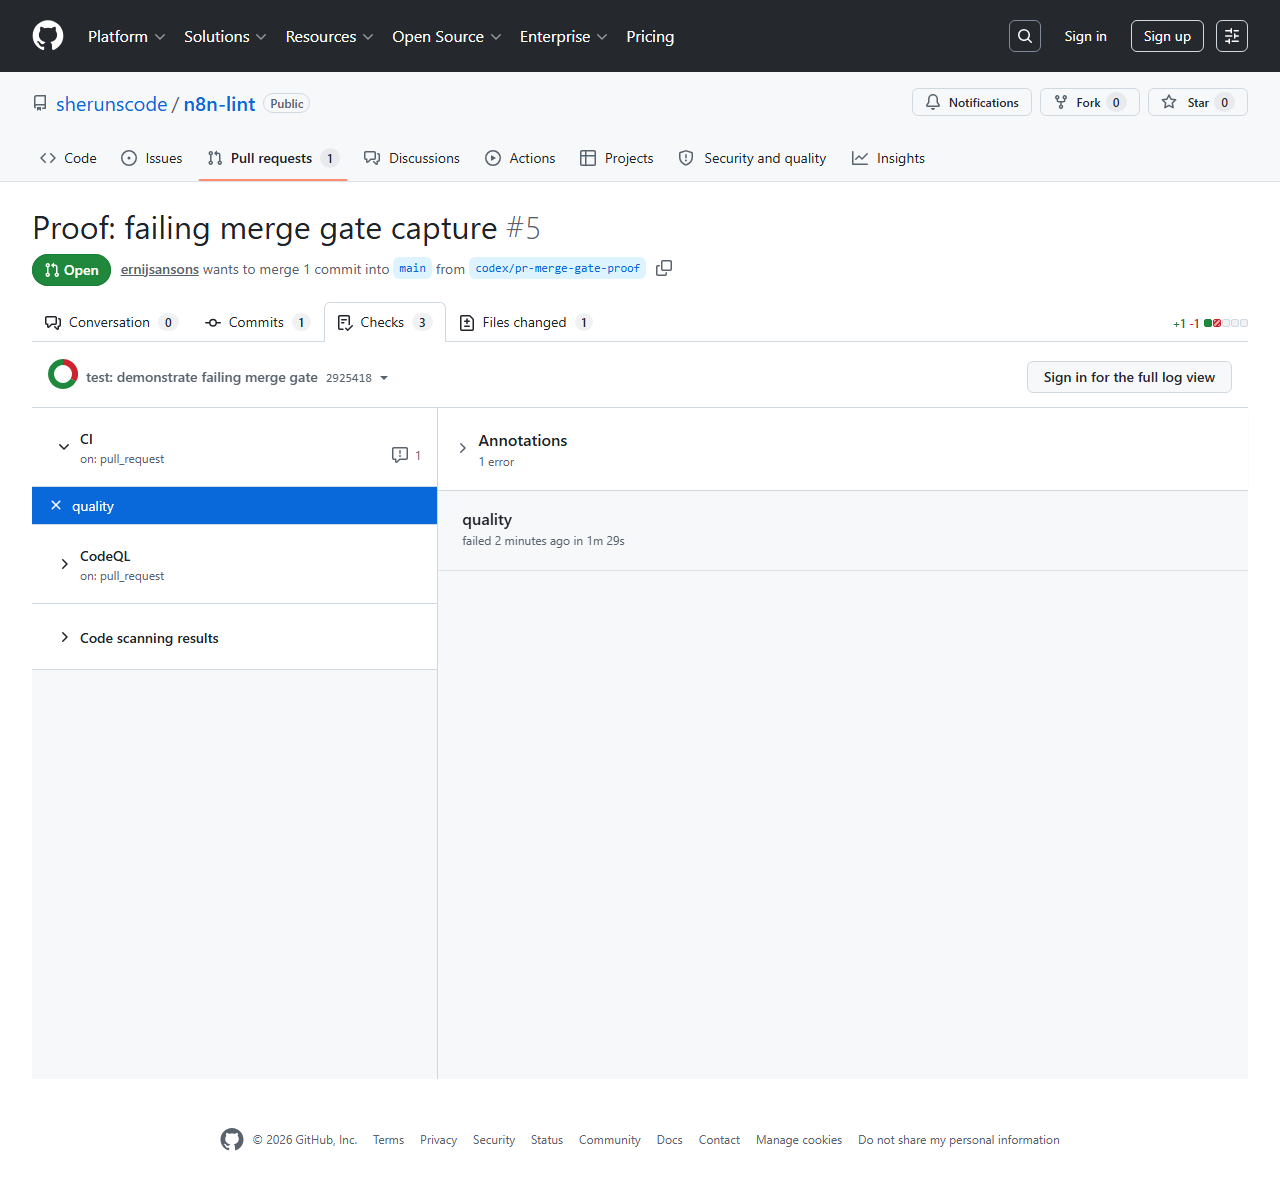
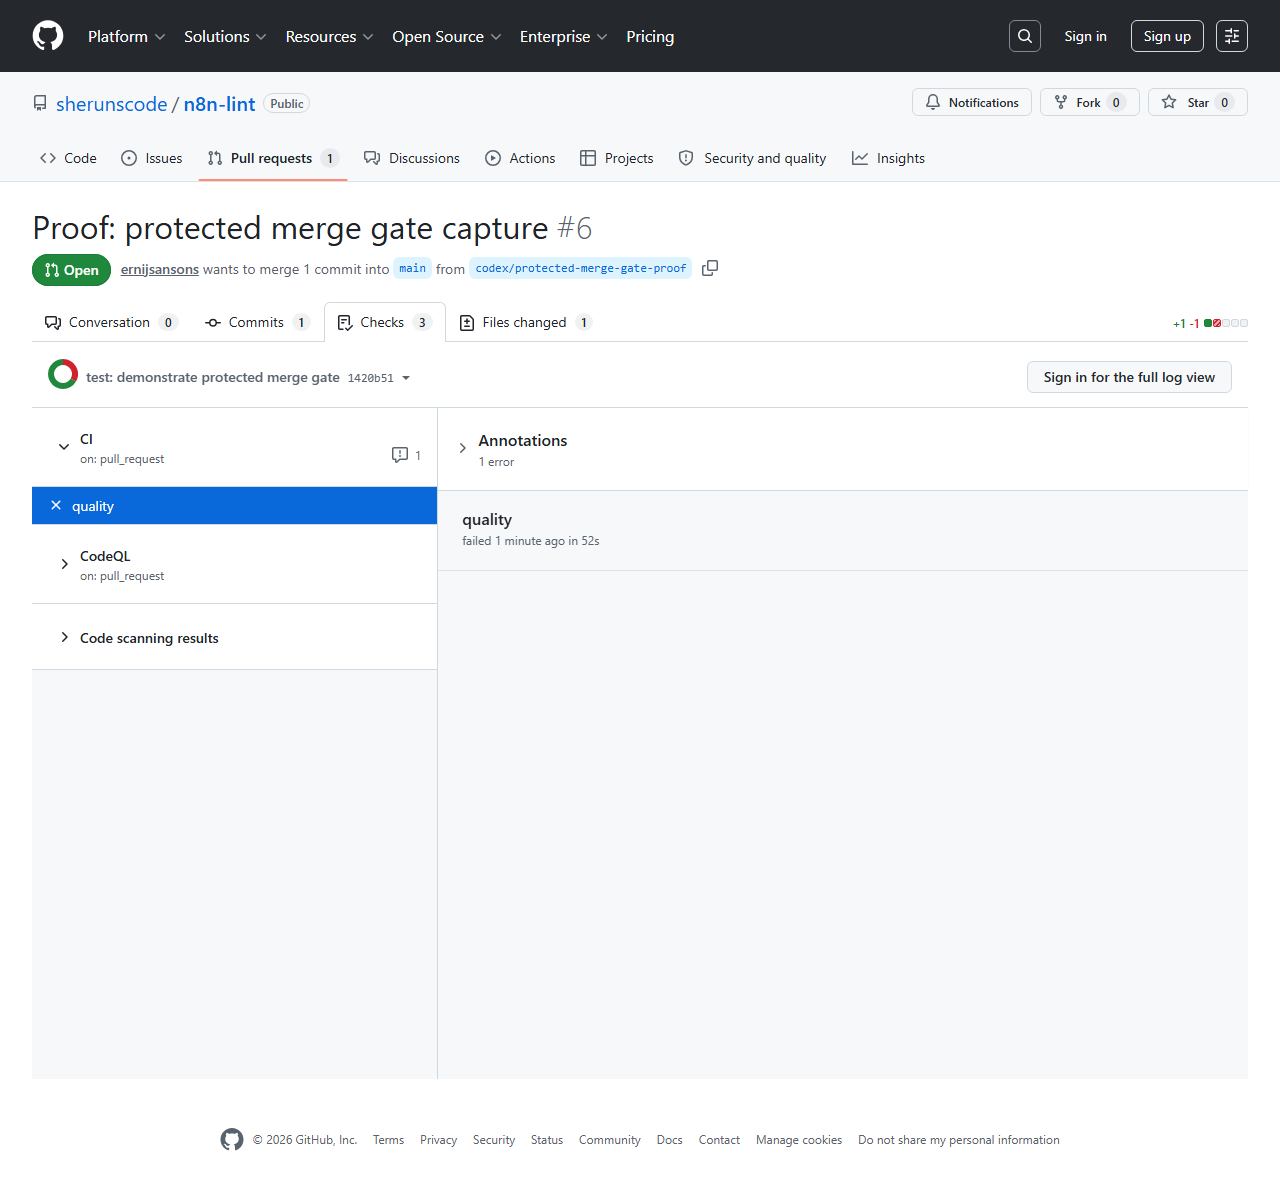
test: enforce protected merge gate proof

Changed region(s): [[0.0938, 0.1862, 0.5625, 0.2483], [0.1562, 0.3104, 0.3125, 0.3414], [0.4375, 0.4346, 0.4688, 0.4656]]

diff --git a/docs/github-pr-merge-gate-proof.md b/docs/github-pr-merge-gate-proof.md
@@ -8,30 +8,32 @@ Asset path: `docs/assets/github-pr-merge-gate-proof.png`
 
 ## Evidence
 
-- Proof-only PR: `https://github.com/sherunscode/n8n-lint/pull/5`
-- Purpose: capture a real GitHub merge-gate failure screenshot for the n8n-lint
-  launch checklist.
-- PR title: `Proof: failing merge gate capture`
+- Proof-only PR: `https://github.com/sherunscode/n8n-lint/pull/6`
+- Purpose: capture a real protected GitHub merge-gate failure screenshot for
+  the n8n-lint launch checklist.
+- PR title: `Proof: protected merge gate capture`
 - PR state after capture: closed.
-- PR merge state at proof check: `UNSTABLE` from the failed `quality` check.
-- Proof commit: `2925418`.
-- Remote proof branch deleted after capture: `codex/pr-merge-gate-proof`.
+- PR merge state at proof check: `BLOCKED` from the failed required status
+  check.
+- Branch protection: `main` requires the `quality` status check for non-admins.
+- Proof commit: `1420b51`.
+- Remote proof branch deleted after capture: `codex/protected-merge-gate-proof`.
 - The proof-only PR intentionally rewired the quality script to fail and must
   not be merged.
 - Failing CI run:
-  `https://github.com/sherunscode/n8n-lint/actions/runs/28957583303`
+  `https://github.com/sherunscode/n8n-lint/actions/runs/28958780193`
 - Failing quality job:
-  `https://github.com/sherunscode/n8n-lint/actions/runs/28957583303/job/85920525638`
+  `https://github.com/sherunscode/n8n-lint/actions/runs/28958780193/job/85924615158`
 - Failing job name: `quality`
 - Failing job conclusion: `FAILURE`
 - Successful CodeQL run:
-  `https://github.com/sherunscode/n8n-lint/actions/runs/28957583576`
+  `https://github.com/sherunscode/n8n-lint/actions/runs/28958780281`
 - CodeQL conclusion: `SUCCESS`
 
 ## Boundaries
 
 - This proof does not claim the failing branch was product work.
-- This proof does not claim the PR was mergeable after checks.
+- This proof confirms the PR was blocked by the failed required status check.
 - This proof does not keep the failing branch alive.
 - The durable artifact is the screenshot plus public GitHub run metadata checked
   by `npm run check:github-pr-gate-proof`.

diff --git a/docs/deep-audit-2026-07-08.md b/docs/deep-audit-2026-07-08.md
@@ -91,8 +91,9 @@ REST claims.
   GitHub PR checks-tab screenshot at
   `docs/assets/github-pr-merge-gate-proof.png` and is checked by
   `npm run check:github-pr-gate-proof` against public PR/run metadata. The
-  proof-only PR #5 had a failed `quality` job, successful CodeQL run, unstable
-  merge state, closed PR state, and deleted proof branch.
+  proof-only PR #6 had a failed required `quality` job, successful CodeQL run,
+  protected `BLOCKED` merge state, closed PR state, deleted proof branch, and
+  `main` branch protection requiring `quality` for non-admins.
 - Architecture and support/rollback docs exist for the current MVP.
 - Dependabot is configured for npm and GitHub Actions.
 - CodeQL is configured for JavaScript/TypeScript analysis.
@@ -186,8 +187,9 @@ REST claims.
   dogfooding, tool metadata, and Marketplace non-claim boundaries.
 - `npm run check:github-pr-gate-proof` now enforces that the PR merge-gate
   screenshot is a real PNG asset backed by public GitHub metadata for proof-only
-  PR #5, including failed `quality`, successful CodeQL, unstable merge state,
-  closed PR state, and deleted proof branch cleanup.
+  PR #6, including failed required `quality`, successful CodeQL, protected
+  `BLOCKED` merge state, closed PR state, deleted proof branch cleanup, and
+  `main` branch protection requiring `quality`.
 - `npm run check:strategy-checklist` now enforces that `STRATEGY.md` marks only
   repo-proven checklist boxes as complete, including final human/JSON summary
   proof, and leaves owner-gated, external UI, and future live REST/release

diff --git a/README.md b/README.md
@@ -89,7 +89,7 @@ same real matrix CLI and JSON output, then checked by
 - PR merge-gate proof: `docs/github-pr-merge-gate-proof.md` records a real
   GitHub PR checks-tab screenshot at `docs/assets/github-pr-merge-gate-proof.png`
   plus public run metadata for a proof-only PR where the `quality` check failed
-  and left the PR merge state unstable.
+  and left the protected PR merge state blocked.
 - Architecture visual: `docs/assets/architecture.svg` is generated from the
   package metadata, schema config, and tool metadata.
 - Badge-state visual: `docs/assets/last-verified-badges.svg` is generated from
@@ -380,9 +380,10 @@ array expansion, `--format github` invocation, last-verified badge summary, CI
 dogfood step, tool metadata, and Marketplace boundary stay aligned.
 
 `npm run check:github-pr-gate-proof` proves the PR merge-gate screenshot is a
-real PNG asset backed by public GitHub metadata for proof-only PR #5, including
-the failed `quality` job, successful CodeQL run, closed proof PR, and deleted
-proof branch cleanup.
+real PNG asset backed by public GitHub metadata for proof-only PR #6, including
+the failed required `quality` job, successful CodeQL run, protected `BLOCKED`
+merge state, closed proof PR, deleted proof branch cleanup, and `main` branch
+protection requiring `quality`.
 
 `npm run check:strategy-checklist` checks the local strategy checklist when
 present, keeps executable repo proof aligned, and leaves owner-gated release

diff --git a/CHANGELOG.md b/CHANGELOG.md
@@ -64,8 +64,9 @@
 - Added an executable GitHub Action gate and hardened action path handling with
   a quoted bash array before invoking the CLI.
 - Added a real GitHub PR checks-tab screenshot proof plus an executable gate
-  that validates proof-only PR #5, failed `quality`, successful CodeQL, unstable
-  merge state, closed PR state, and deleted proof branch cleanup through public
+  that validates proof-only PR #6, failed required `quality`, successful CodeQL,
+  protected `BLOCKED` merge state, closed PR state, deleted proof branch
+  cleanup, and `main` branch protection requiring `quality` through public
   GitHub metadata.
 - Added an executable strategy-checklist gate that reconciles `STRATEGY.md`
   checklist status against repo proof while keeping owner/external/future gates

diff --git a/docs/launch-content-pack.md b/docs/launch-content-pack.md
@@ -37,7 +37,7 @@ Evidence IDs used below:
 | E16 | `docs/assets/matrix-compatibility-demo.gif`             | Generated from the same real matrix CLI and JSON output by `npm run generate:matrix-gif`; freshness is enforced by `npm run check:matrix-gif`. It provides the animated pass/fail matrix proof for README and launch drafts.                                                                                                                                                                                                                                                                                |
 | E17 | `docs/assets/benchmark-dashboard.svg`                   | Generated from `docs/benchmark-zie619-report.json` by `npm run generate:benchmark-dashboard`; freshness is enforced by `npm run check:benchmark-dashboard`. It visualizes the checked 2,066-workflow benchmark, pass/fail/skipped counts, and top failure categories without claiming workflow execution or live REST validation.                                                                                                                                                                           |
 | E18 | `docs/assets/batch-benchmark-output.svg`                | Generated from `docs/benchmark-zie619-report.json` by `npm run generate:batch-benchmark-output`; freshness is enforced by `npm run check:batch-benchmark-output`. It shows the checked full-repo batch benchmark output, discovered/selected/pass/fail/skipped counts, top failure categories, and the no-workflow-execution/no-live-REST boundary.                                                                                                                                                             |
-| E19 | `docs/assets/github-pr-merge-gate-proof.png`            | Real GitHub PR checks-tab screenshot captured from proof-only PR #5. Freshness is enforced by `npm run check:github-pr-gate-proof`, which validates the PNG plus public GitHub metadata for failed `quality`, successful CodeQL, unstable merge state, closed PR state, and deleted proof branch cleanup.                                                                                                                                                                                                      |
+| E19 | `docs/assets/github-pr-merge-gate-proof.png`            | Real GitHub PR checks-tab screenshot captured from proof-only PR #6. Freshness is enforced by `npm run check:github-pr-gate-proof`, which validates the PNG plus public GitHub metadata for failed required `quality`, successful CodeQL, protected `BLOCKED` merge state, closed PR state, deleted proof branch cleanup, and `main` branch protection requiring `quality`.                                                                                                                                    |
 
 The benchmark report records the source SHA used for benchmark generation. For
 launch posts, re-check current `main` CI and the public benchmark report URL